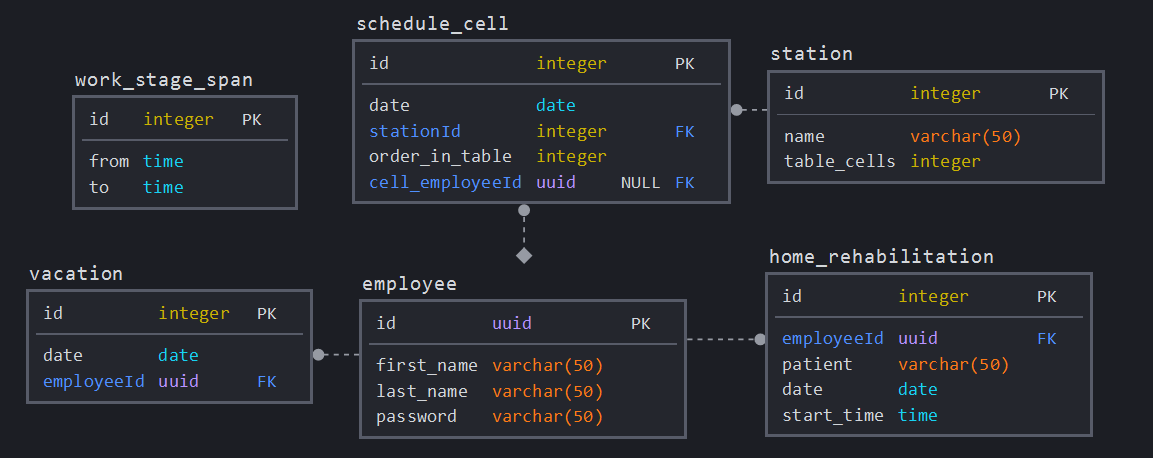
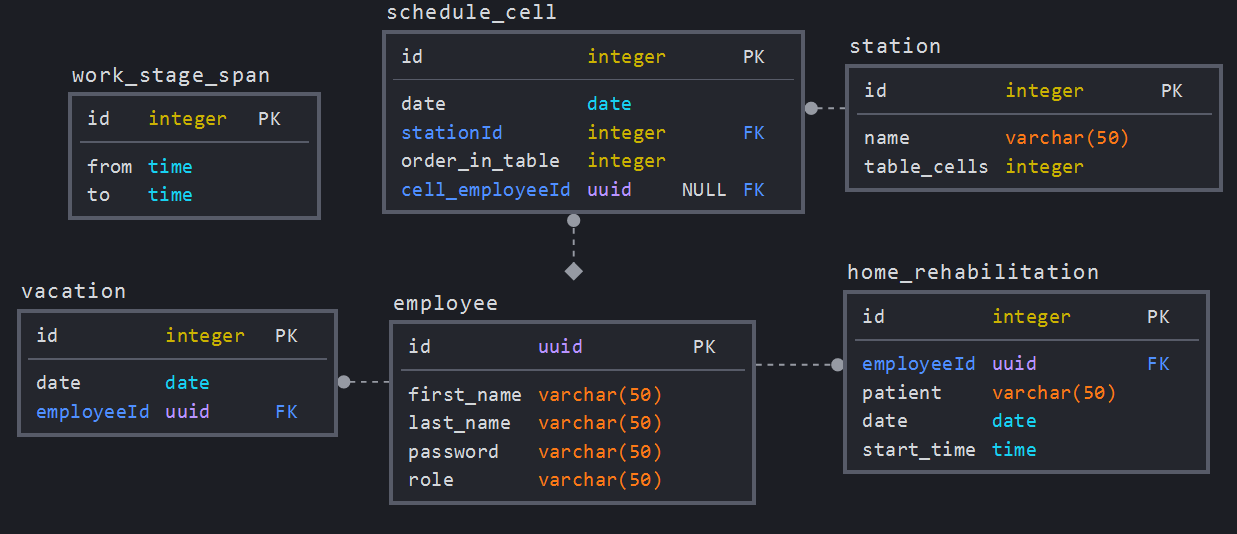
Finished login & jwt logic. Added additional veryfier to post schedules route.

Changed region(s): [[0.0, 0.4891, 0.9991, 0.9782], [0.0312, 0.0, 0.9991, 0.5197], [0.6557, 0.9476, 0.9367, 0.9782]]

diff --git a/source/application/controllers/ScheduleController.ts b/source/application/controllers/ScheduleController.ts
@@ -4,7 +4,7 @@ import { ScheduleCell } from '../../domain/entities/ScheduleCell';
 import { Station } from '../../domain/entities/Station';
 import { Employee } from '../../domain/entities/Employee';
 import { scheduleGenerator } from '../../domain/scheduleGenerator/scheduleGenerator';
-import { dailyDateSchedule } from '../../../typeDefs/types';
+import { dailyDateSchedule, employeeRole } from '../../../typeDefs/types';
 
 export class ScheduleController {
 	static getScheduleByDate = async (
@@ -51,6 +51,9 @@ export class ScheduleController {
 		res: Response,
 		next: NextFunction
 	) => {
+		if (req.body.token.employeeRole !== employeeRole.BOSS)
+			return res.status(403).send({ message: 'Unauthorized.' });
+
 		const scheduleCellsRepository = getRepository(ScheduleCell);
 		const cellsToSave: ScheduleCell[] = [];
 
@@ -119,29 +122,42 @@ export class ScheduleController {
 		res: Response,
 		next: NextFunction
 	) => {
-		// Still need to check if arrays contains Employee or nulls...
 		const date = Object.keys(req.body)[0];
-		if (!validateDateString(date)) return res.status(400).send('Invalid date.');
+		if (!validateDateString(date))
+			return res.status(400).send({ message: 'Invalid date.' });
+		req.body.date = date;
 
 		const scheduleCellsRepository = getRepository(ScheduleCell);
 		const currentCellsPerDate = await scheduleCellsRepository.find({
 			relations: ['station', 'employeeAtCell'],
 			where: { date },
 		});
-
 		req.body.currentCellsPerDate = currentCellsPerDate;
-		req.body.date = date;
+
 		req.body.schedules = req.body[date];
 
 		for (const stationName of Object.keys(req.body.schedules)) {
 			const station = req.body.stations.find(
 				(station: Station) => station.name === stationName
 			);
-			if (!station) return res.status(400).send('Wrong staiton names.');
-			const stationSchedule: (Employee | null)[] =
+			if (!station)
+				return res.status(400).send({ message: 'Wrong station names.' });
+
+			const cellsAtStaiton: (Employee | null)[] =
 				req.body.schedules[stationName];
-			if (stationSchedule.length !== station.numberOfCellsInTable)
-				return res.status(400).send('Wrong arrays format.');
+			for (const cellValue of cellsAtStaiton) {
+				if (
+					cellValue !== null &&
+					!req.body.employees.some((emp: Employee) => emp.id === cellValue.id)
+				)
+					return res.status(400).send({
+						message:
+							'Wrong schedules values. Accept null or employee object with valid id',
+					});
+			}
+
+			if (cellsAtStaiton.length !== station.numberOfCellsInTable)
+				return res.status(400).send({ message: 'Wrong arrays length.' });
 		}
 		next();
 	};

diff --git a/source/application/controllers/LoginController.ts b/source/application/controllers/LoginController.ts
@@ -3,6 +3,7 @@ import { getRepository } from 'typeorm';
 import { Employee } from '../../domain/entities/Employee';
 import bcrypt from 'bcryptjs';
 import createJWT from '../../../util/createJWT';
+import { user } from '../../../typeDefs/types';
 
 export class LoginController {
 	static login = async (req: Request, res: Response, next: NextFunction) => {
@@ -10,7 +11,7 @@ export class LoginController {
 			const { lastName, password } = req.body;
 
 			const employee = await getRepository(Employee).findOne({
-				select: ['lastName', 'password', 'id'],
+				select: ['lastName', 'password', 'id', 'role'],
 				where: { lastName: lastName },
 			});
 
@@ -19,16 +20,20 @@ export class LoginController {
 
 			const match = await bcrypt.compare(password, employee.password);
 
+			const employeeUser: user = {
+				id: employee.id,
+				role: employee.role,
+			};
+
 			if (match) {
-				createJWT(employee, (error, token) => {
+				createJWT(employeeUser, (error, token) => {
 					if (error) next(error);
 					else if (token) {
-						delete employee.password;
-						return res.json({ message: 'Login passed.', token, employee });
+						return res.json({ message: 'Login passed.', token, employeeUser });
 					}
 				});
 			} else {
-				res.status(401).json({ message: 'Unauthorized.' });
+				res.status(401).json({ message: 'Wrong password.' });
 			}
 		} catch (error) {
 			next(error);

diff --git a/app.ts b/app.ts
@@ -7,7 +7,8 @@ import { logger } from './source/infrastructure/logger';
 import { employeesRouter } from './source/application/routes/employeesRouter';
 import { workStageSpanRouter } from './source/application/routes/workStageSpansRouter';
 import { schedulesRouter } from './source/application/routes/schedulesRouter';
-import { authorizationRouter } from './source/application/routes/authorizationRouter';
+import { loginRouter } from './source/application/routes/loginRouter';
+import validateToken from './source/application/middleware/validateJWT';
 import { PORT } from './configs/config.json';
 const server = createExpressServer({
 	// controllers:[],
@@ -18,10 +19,11 @@ server.use(express.json());
 server.use(morgan('dev'));
 
 server.use(
+	loginRouter,
+	validateToken,
 	employeesRouter,
 	workStageSpanRouter,
-	schedulesRouter,
-	authorizationRouter
+	schedulesRouter
 );
 
 server.listen(PORT, async () => {

diff --git a/source/domain/entities/Employee.ts b/source/domain/entities/Employee.ts
@@ -2,6 +2,7 @@ import { Entity, Column, PrimaryGeneratedColumn, OneToMany } from 'typeorm';
 import { HomeRehabilitation } from './HomeRehabilitation';
 import { Vacation } from './Vacation';
 import { ScheduleCell } from './ScheduleCell';
+import { employeeRole } from '../../../typeDefs/types';
 
 @Entity()
 export class Employee {
@@ -11,11 +12,18 @@ export class Employee {
 	@Column({ length: 50 })
 	public firstName: string;
 
-	@Column({ length: 100 /* unique: true  */ })
+	@Column({ length: 100, unique: true })
 	public lastName: string;
 
 	@Column({ select: false })
 	public password: string;
+
+	@Column({
+		type: 'enum',
+		enum: employeeRole,
+		default: employeeRole.EMPLOYEE,
+	})
+	public role: employeeRole;
 
 	@OneToMany(
 		() => HomeRehabilitation,

diff --git a/typeDefs/types.ts b/typeDefs/types.ts
@@ -7,7 +7,11 @@ export interface dailyDateSchedule {
 export interface dailySchedule {
 	[station: string]: (Employee | null)[];
 }
+export enum employeeRole {
+	BOSS = 'BOSS',
+	EMPLOYEE = 'EMPLOYEE',
+}
 export interface user {
-	lastName: string;
-	password: string;
+	id: string;
+	role: employeeRole;
 }

diff --git a/source/application/controllers/WorkStageSpanController.ts b/source/application/controllers/WorkStageSpanController.ts
@@ -9,6 +9,8 @@ export class WorkStageSpanController {
 		next: NextFunction
 	) => {
 		try {
+			console.log(req.body.token);
+
 			const stageSpans = await getRepository(WorkStageSpan).find();
 			res.json(stageSpans);
 		} catch (error) {

diff --git a/source/application/routes/loginRouter.ts b/source/application/routes/loginRouter.ts
@@ -1,0 +1,5 @@
+import express from 'express';
+import { LoginController } from '../controllers/LoginController';
+export const loginRouter = express.Router();
+
+loginRouter.post('/login', LoginController.login);

diff --git a/source/application/middleware/validateJWT.ts b/source/application/middleware/validateJWT.ts
@@ -18,7 +18,8 @@ const validateToken = async (
 				});
 			else {
 				res.locals.token = decoded;
-				res.send({ message: 'Authorized' });
+				req.body.token = decoded;
+				next();
 			}
 		});
 	} else {

diff --git a/util/createJWT.ts b/util/createJWT.ts
@@ -12,7 +12,7 @@ const createJWT = (
 ): void => {
 	try {
 		jwt.sign(
-			{ lastName: user.lastName },
+			{ employeeId: user.id, employeeRole: user.role },
 			TOKEN_SECRET,
 			{
 				issuer: TOKEN_ISSUER,
